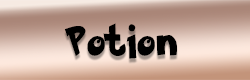
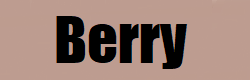
Add files via upload

diff --git a/PotionGUI.java b/PotionGUI.java
@@ -13,7 +13,7 @@ public class PotionGUI extends JFrame{
         setVisible(true);
         
         Container c = getContentPane();
-        ImageIcon img = new ImageIcon("potionbag.png");
+        ImageIcon img = new ImageIcon("berrybag.png");
         ImageIcon BTuseBG = new ImageIcon("BTuseBG.png");
         ImageIcon BTBackPotion = new ImageIcon("BTBackPotion.png");
         
@@ -54,10 +54,10 @@ public class PotionGUI extends JFrame{
         pic.add(numS_hp);
         pic.add(numS_sp);
 
-        ImageIcon L_HP_potion = new ImageIcon("Lpotion.png");
-        ImageIcon S_HP_potion = new ImageIcon("Spotion.png");
-        ImageIcon L_SP_Potion = new ImageIcon("SPpotion.png");
-        ImageIcon S_SP_Potion = new ImageIcon("S_SPpotion.png");
+        ImageIcon L_HP_potion = new ImageIcon("berry1.png");
+        ImageIcon S_HP_potion = new ImageIcon("berry2.png");
+        ImageIcon L_SP_Potion = new ImageIcon("berry3.png");
+        ImageIcon S_SP_Potion = new ImageIcon("berry5.png");
         
 
         JLabel L_HP = new JLabel(L_HP_potion);

diff --git a/menuGUI.java b/menuGUI.java
@@ -13,7 +13,7 @@ public class menuGUI extends JFrame{
         setVisible(true);
         
         Container c = getContentPane();
-        ImageIcon img = new ImageIcon("menu.png");
+        ImageIcon img = new ImageIcon("Menu1.png");
         ImageIcon BTpokemonbag = new ImageIcon("BTpokemonbag.png");
         ImageIcon BTfindpokemon = new ImageIcon("BTfindpokemon.png");
         ImageIcon BTpotion = new ImageIcon("BTpotion.png");

diff --git a/SelectskillCatchGUI.java b/SelectskillCatchGUI.java
@@ -18,7 +18,7 @@ public class SelectskillCatchGUI extends JFrame{
         setVisible(true);
 
         Container c = getContentPane();
-        ImageIcon background = new ImageIcon("skill.png");
+        ImageIcon background = new ImageIcon("selectskill.png");
         ImageIcon BTcomfirm = new ImageIcon("BTcomfirm.png");
         JLabel pic = new JLabel(background);
         c.add(pic);

diff --git a/SelectskillGUI.java b/SelectskillGUI.java
@@ -16,7 +16,7 @@ public class SelectskillGUI extends JFrame{
         setVisible(true);
 
         Container c = getContentPane();
-        ImageIcon background = new ImageIcon("skill.png");
+        ImageIcon background = new ImageIcon("selectskill.png");
         ImageIcon BTcomfirm = new ImageIcon("BTcomfirm.png");
         JLabel pic = new JLabel(background);
         c.add(pic);

diff --git a/SelectPokemonGUI.java b/SelectPokemonGUI.java
@@ -17,7 +17,7 @@ public class SelectPokemonGUI extends JFrame{
         setVisible(true);
 
         Container c = getContentPane();
-        ImageIcon img = new ImageIcon("fight.png"); 
+        ImageIcon img = new ImageIcon("selectfight.png"); 
         ImageIcon BTBackPotion = new ImageIcon("BTBackPotion.png");
         JLabel pic = new JLabel(img);
         c.add(pic);

diff --git a/renameGUI.java b/renameGUI.java
@@ -14,7 +14,7 @@ public class renameGUI extends JFrame{
         setVisible(true);
 
         Container c = getContentPane();
-        ImageIcon img = new ImageIcon("selectpoke.png");
+        ImageIcon img = new ImageIcon("selectbag.png");
         ImageIcon BTBackPotion = new ImageIcon("BTBackPotion.png");
         JLabel pic = new JLabel(img);
         c.add(pic);

diff --git a/RewardGUI.java b/RewardGUI.java
@@ -15,7 +15,7 @@ public class RewardGUI extends JFrame{
         setVisible(true);
         
         Container c = getContentPane();
-        ImageIcon img = new ImageIcon("gotitem.png");
+        ImageIcon img = new ImageIcon("getitem.png");
         ImageIcon BTcatch = new ImageIcon("BTcatch.png");
         ImageIcon BTdcatch = new ImageIcon("BTdcatch.png");
 

diff --git a/bagGUI.java b/bagGUI.java
@@ -14,7 +14,7 @@ public class bagGUI extends JFrame{
         setVisible(true);
 
         Container c = getContentPane();
-        ImageIcon img = new ImageIcon("inbag.png");
+        ImageIcon img = new ImageIcon("back1.png");
         ImageIcon BTBackPotion = new ImageIcon("BTBackPotion.png");
         JLabel pic = new JLabel(img);
         c.add(pic);
